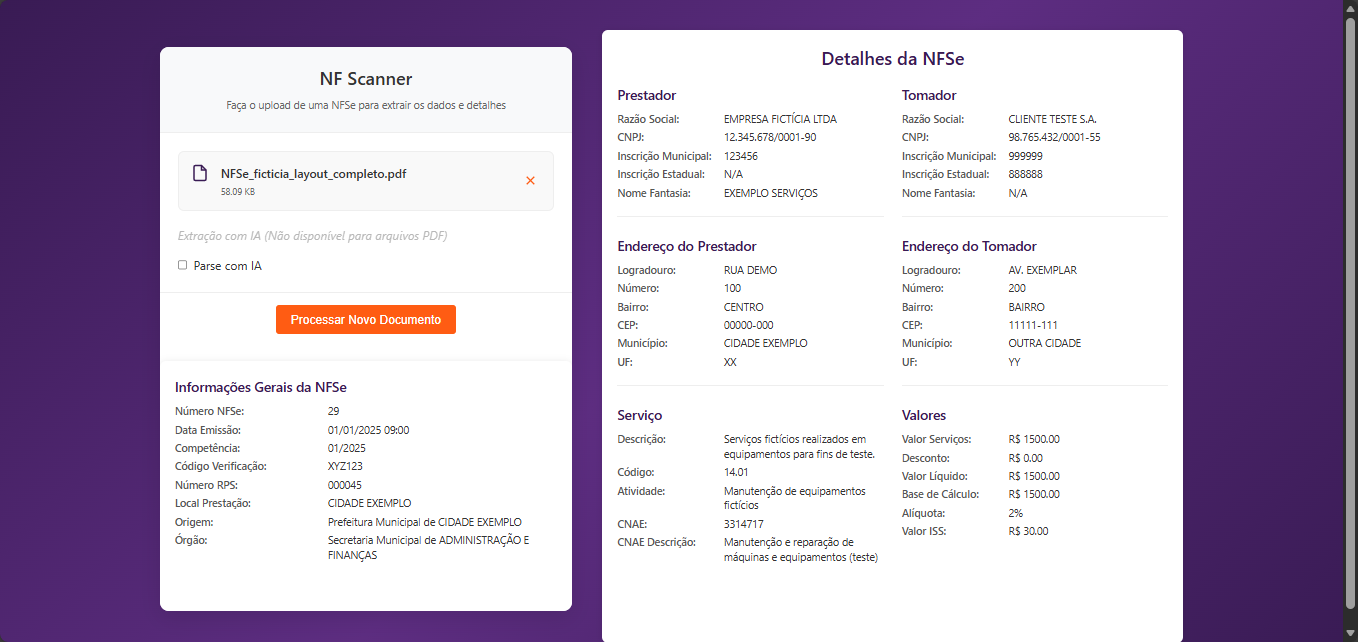
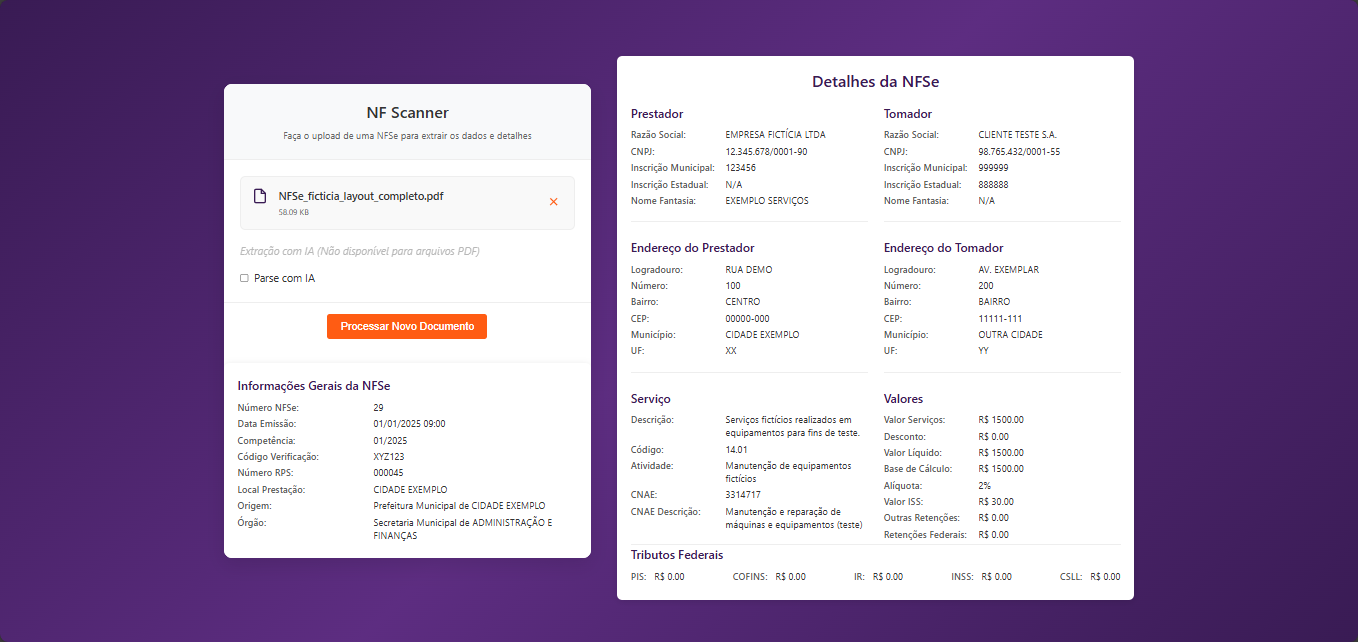
Adiciona campo de tributações na tela de resultado

Changed region(s): [[0.0928, 0.0312, 0.8969, 1.0], [0.9897, 0.0, 1.0, 1.0], [0.6495, 0.3738, 0.8041, 0.5607]]

diff --git a/src/app/file-upload/file-upload.html b/src/app/file-upload/file-upload.html
@@ -313,6 +313,42 @@
               <span>Valor ISS:</span>
               <span>R$ {{ nfseResponse()!.nfse.valores.valor_iss }}</span>
             </div>
+            <div class="result-item">
+              <span>Outras Retenções:</span>
+              <span>R$ {{ nfseResponse()!.nfse.valores.outras_retencoes
+                }}</span>
+            </div>
+            <div class="result-item">
+              <span>Retenções Federais:</span>
+              <span>R$ {{ nfseResponse()!.nfse.valores.retencoes_federais
+                }}</span>
+            </div>
+          </div>
+        </div>
+      </div>
+      <div class="result-section taxes-section">
+        <h3>Tributos Federais</h3>
+        <div class="taxes-container">
+          <div class="result-item">
+            <span>PIS:</span>
+            <span>R$ {{ nfseResponse()!.nfse.tributos_federais.pis }}</span>
+          </div>
+          <div class="result-item">
+            <span>COFINS:</span>
+            <span>R$ {{ nfseResponse()!.nfse.tributos_federais.cofins
+              }}</span>
+          </div>
+          <div class="result-item">
+            <span>IR:</span>
+            <span>R$ {{ nfseResponse()!.nfse.tributos_federais.ir }}</span>
+          </div>
+          <div class="result-item">
+            <span>INSS:</span>
+            <span>R$ {{ nfseResponse()!.nfse.tributos_federais.inss }}</span>
+          </div>
+          <div class="result-item">
+            <span>CSLL:</span>
+            <span>R$ {{ nfseResponse()!.nfse.tributos_federais.csll }}</span>
           </div>
         </div>
       </div>

diff --git a/src/app/file-upload/file-upload.scss b/src/app/file-upload/file-upload.scss
@@ -218,6 +218,8 @@
 
 .result-section:last-child {
   border-bottom: none;
+  margin-bottom: 0;
+  padding-bottom: 0;
 }
 
 .result-section h3 {
@@ -302,4 +304,18 @@
 
 .result-content {
   padding: 24px;
+}
+
+.taxes-section {
+  border-top: 1px solid #eee;
+}
+
+.taxes-container {
+  display: flex;
+  flex-direction: row;
+  justify-content: space-between;
+
+  .result-item {
+    display: block;
+  }
 }
